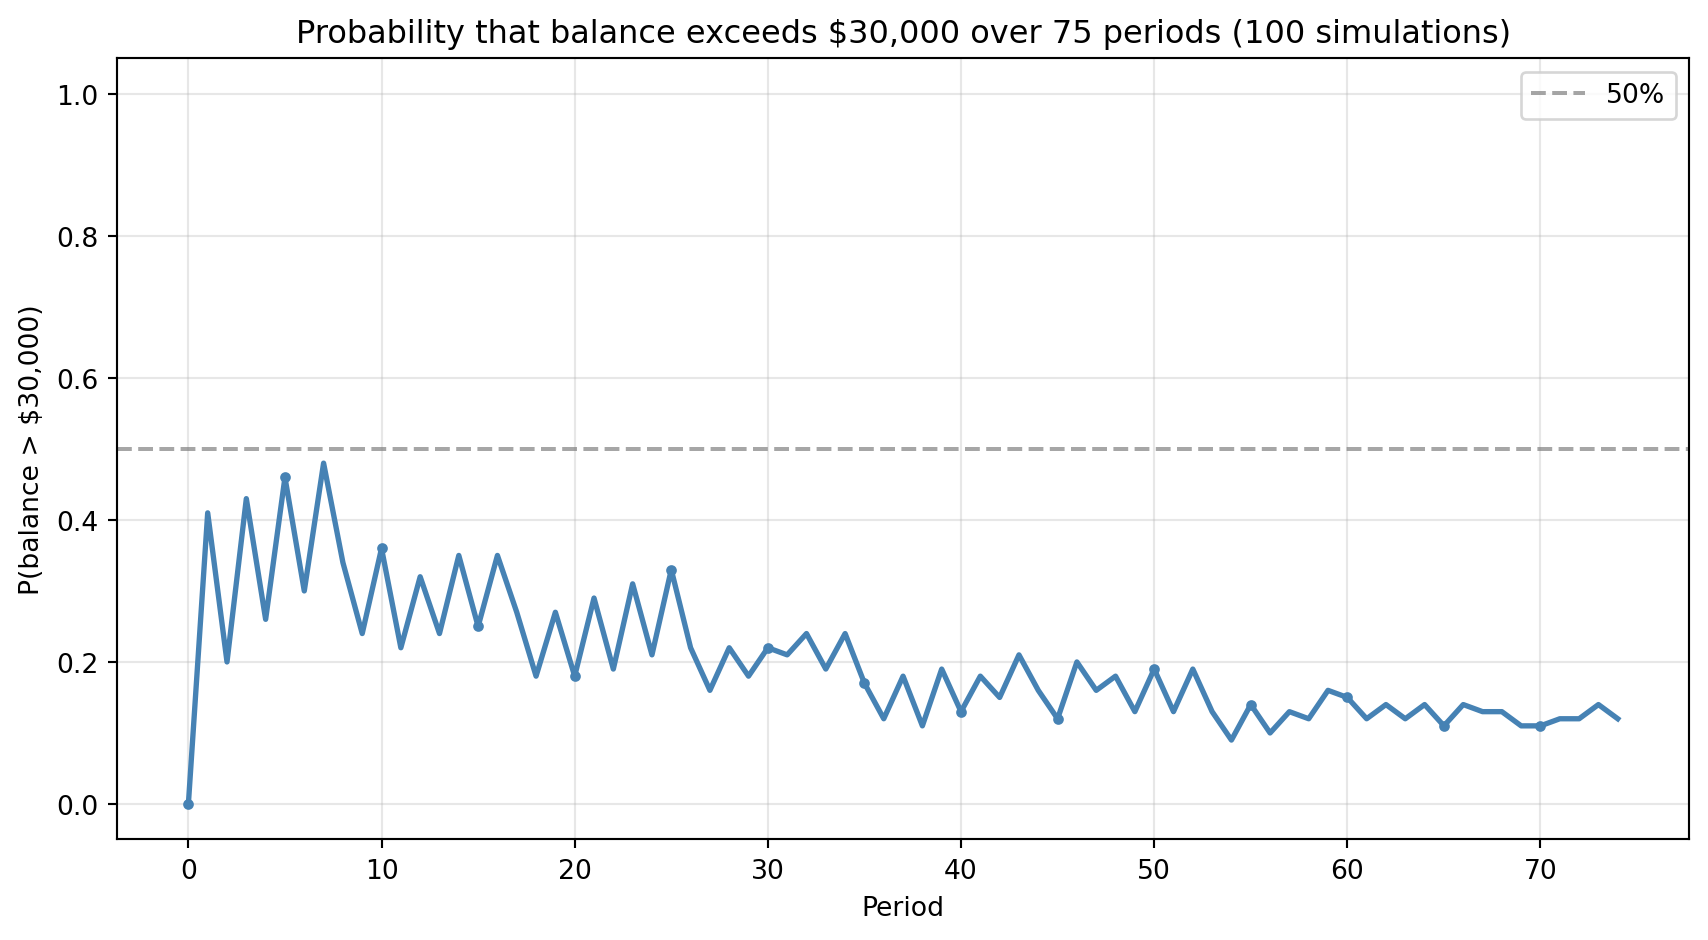
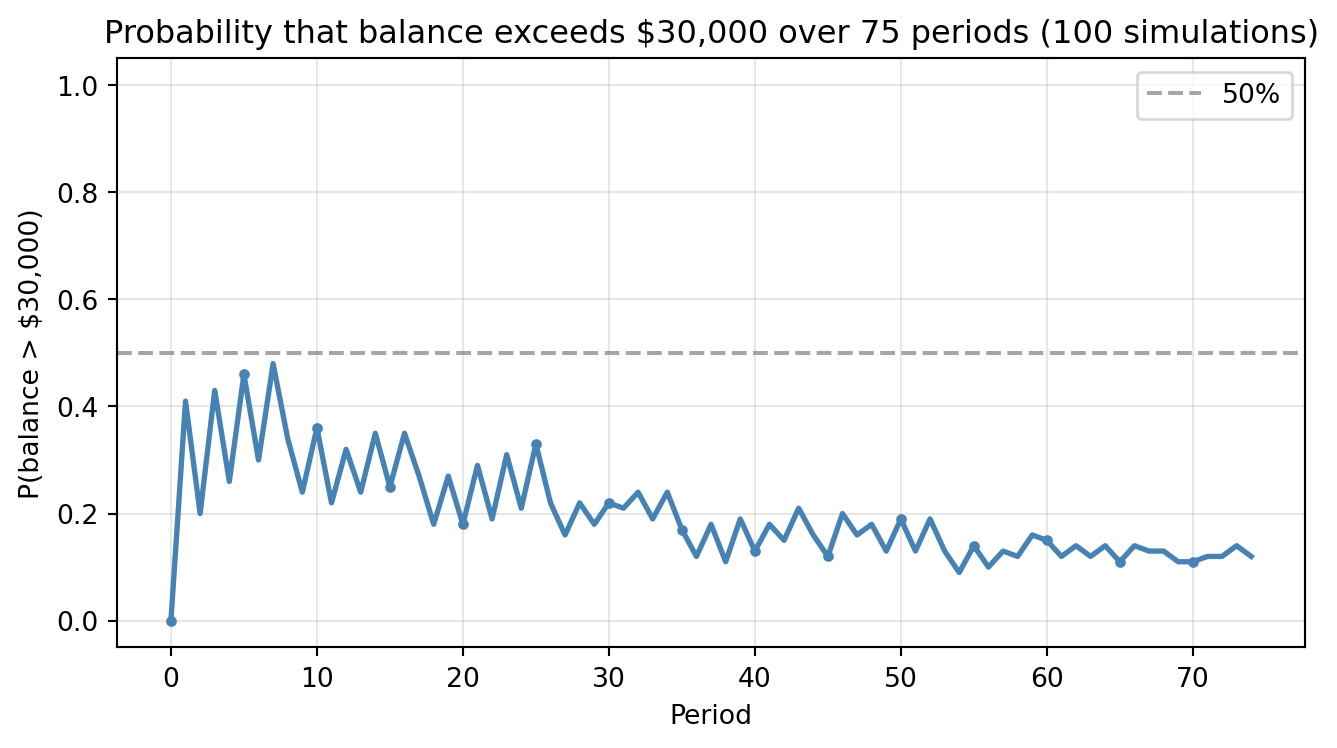
Add changes to qurato file

Changed region(s): [[0.0, 0.0, 1.0, 0.984]]

diff --git a/index.html b/index.html
@@ -139,7 +139,7 @@ Figure&nbsp;1: Generative DAG model for the investment game showing how wealth e
 <div class="cell-output cell-output-display">
 <div id="q3-dist-100-py" class="quarto-figure quarto-figure-center anchored">
 <figure class="figure">
-<p><img src="index_files/figure-html/q3-dist-100-py-output-1.png" width="854" height="470" class="figure-img"></p>
+<p><img src="index_files/figure-html/q3-dist-100-py-output-1.png" width="614" height="374" class="figure-img"></p>
 <figcaption>Distribution of final balances across 100 simulations</figcaption>
 </figure>
 </div>
@@ -155,7 +155,7 @@ Figure&nbsp;1: Generative DAG model for the investment game showing how wealth e
 <div class="cell-output cell-output-display">
 <div id="q4-prob-original-py-1" class="quarto-figure quarto-figure-center anchored">
 <figure class="figure">
-<p><img src="index_files/figure-html/q4-prob-original-py-output-1.png" width="854" height="470" class="figure-img"></p>
+<p><img src="index_files/figure-html/q4-prob-original-py-output-1.png" width="669" height="374" class="figure-img"></p>
 <figcaption>Probability that balance exceeds $30,000 over 75 periods</figcaption>
 </figure>
 </div>
@@ -163,7 +163,7 @@ Figure&nbsp;1: Generative DAG model for the investment game showing how wealth e
 <div class="cell-output cell-output-display">
 <div>
 <figure class="figure">
-<p><img src="index_files/figure-html/q4-prob-original-py-output-2.png" id="q4-prob-original-py-2" width="854" height="470" class="figure-img"></p>
+<p><img src="index_files/figure-html/q4-prob-original-py-output-2.png" id="q4-prob-original-py-2" width="662" height="374" class="figure-img"></p>
 </figure>
 </div>
 </div>
@@ -178,7 +178,7 @@ Figure&nbsp;1: Generative DAG model for the investment game showing how wealth e
 <div class="cell-output cell-output-display">
 <div id="q5-modified-25pct-py-1" class="quarto-figure quarto-figure-center anchored">
 <figure class="figure">
-<p><img src="index_files/figure-html/q5-modified-25pct-py-output-1.png" width="755" height="374" class="figure-img"></p>
+<p><img src="index_files/figure-html/q5-modified-25pct-py-output-1.png" width="660" height="374" class="figure-img"></p>
 <figcaption>Modified strategy (25% at risk) vs original: distribution of final balances</figcaption>
 </figure>
 </div>
@@ -186,7 +186,7 @@ Figure&nbsp;1: Generative DAG model for the investment game showing how wealth e
 <div class="cell-output cell-output-display">
 <div>
 <figure class="figure">
-<p><img src="index_files/figure-html/q5-modified-25pct-py-output-2.png" id="q5-modified-25pct-py-2" width="854" height="470" class="figure-img"></p>
+<p><img src="index_files/figure-html/q5-modified-25pct-py-output-2.png" id="q5-modified-25pct-py-2" width="673" height="374" class="figure-img"></p>
 </figure>
 </div>
 </div>
